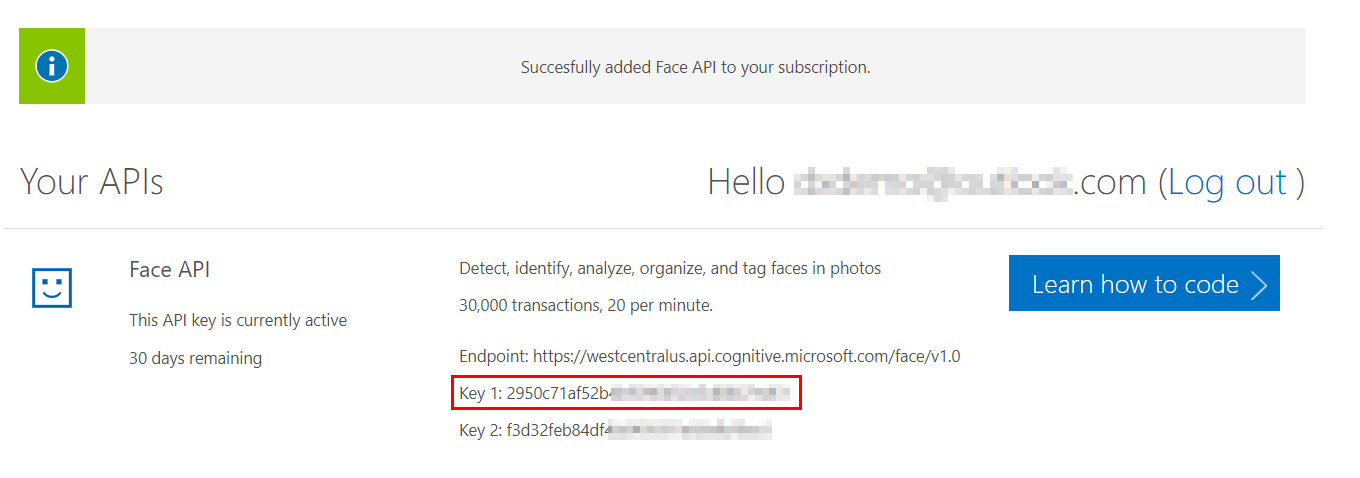
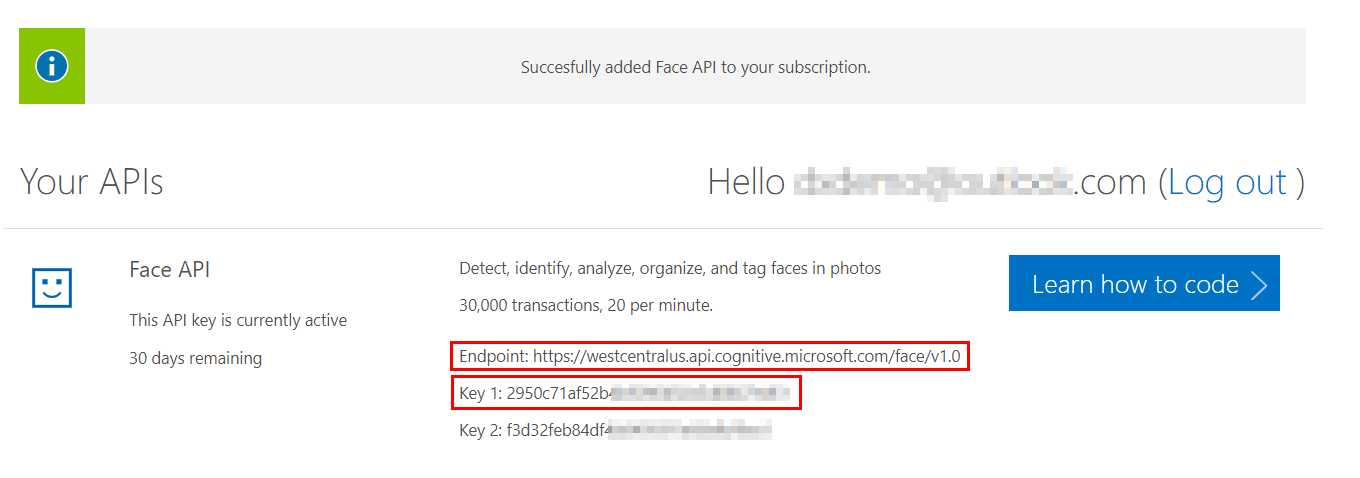
Tutorial improvements

Changed region(s): [[0.3397, 0.7615, 0.7103, 0.7908], [0.3397, 0.7029, 0.7103, 0.7322]]

diff --git a/1-Face.md b/1-Face.md
@@ -37,7 +37,7 @@ Face recognition will be enabled by the Face API and like with any other cloud A
 
    ![](Images/5-get-key.png)
 
-**Copy both keys** somewhere you will find them and take also the **Endpoint** value.
+**Copy** the **Endpoint** and **Key 1** and store them somewhere you will find them later.
 
 Note that you have 30 days to use this free key.
 
@@ -53,7 +53,7 @@ git clone https://github.com/msimecek/Image-Recognition-HoL.git
 
 Go to **\_Source** folder and copy **FaceFrontend** to **_Work**.
 
-If you open the front-end page now, it will attempt to initialize your camera a start a video feed. Depending on your browser this may not work - either the browser doesn't support HTML5 camera access (then use another one), or the browser doesn't allow `file:///` to access the camera. Let's serve our site on localhost first.
+If you open the front-end page now, it will attempt to initialize your camera a start a video feed. Depending on your browser this may not work - either the browser doesn't support HTML5 camera access (then use another one), or the browser doesn't allow `file:///` to access the camera. These commands will run local HTTP server in a directory of your choice:
 
 ```
 npm install http-server -g
@@ -69,17 +69,48 @@ Now visit http://localhost:8080 with your web browser.
 
 ![](Images/1-2-running-frontend.png)
 
+## Face API
+
+Let's take a little break now, before we start building our API, to understand the process of people identification.
+
+First you have to teach the model which people you want to recognize.
+
+1. Create a person group.
+2. Add new person to this group.
+3. Add faces to this person.
+4. Train the group.
+
+![](Images/1-4-face-groups.png)
+
+Then you can send new faces and ask "who is this?"
+
+1. Send an image to the Detect API.
+2. If face detected, send it to the Identify API.
+3. Profit...
+
+![](Images/1-5-identification.png)
+
+Translated to the language of REST:
+
+* `/api/group`
+* `/api/group/[id]/person`
+* `/api/group/[id]/person/[id]/faces`
+* `/api/group/[id]/train`
+* `/api/group/[id]/identify`
+
 ## Create backend
 
-As you can see at the front-end page, teaching computers to recognize certain people is a four step process that involves calling various API endpoints. Let's build those now!
+Let's implement the API described above!
 
-1. Using the command line navigate to the **\_Work** folder.
+1. Using the **console** (CMD, Bash, Terminal...) navigate to the **\_Work** folder.
 2. Run `dotnet new` and see what options are available.
 3. Run `dotnet new webapi -n OSAPI`
 4. `cd OSAPI`
-5. Run Visual Studio Code: `code .` (with the dot).
+5. Run Visual Studio Code: `code .` (including the dot).
 
-Visual Studio will ask if you want to add required assets. Click **Yes**, becuase it will allow you to build and debug directly from VS Code.
+> **Note**: You can use the same source code with Visual Studio 2017 as well. Just the specific steps will be different in Visual Studio Code.
+
+Visual Studio Code will ask if you want to add required assets. Click **Yes**, becuase it will allow you to build and debug directly from VS Code.
 
 ![](Images/1-3-required-assets.png)
 
@@ -111,38 +142,9 @@ namespace OSAPI
 }
 ```
 
-## Face API
-
-Let's take a little break now, before we start building our API, to understand the process of people identification.
-
-First you have to teach the model which people you want to recognize.
-
-1. Create a person group.
-2. Add new person to this group.
-3. Add faces to this person.
-4. Train the group.
-
-![](Images/1-4-face-groups.png)
-
-Then you can send new faces and ask "who is this?"
-
-1. Send an image to the Detect API.
-2. If face detected, send it to the Identify API.
-3. Profit...
-
-![](Images/1-5-identification.png)
-
-Translated to the language of REST:
-
-* `/api/group`
-* `/api/group/[id]/person`
-* `/api/group/[id]/person/[id]/faces`
-* `/api/group/[id]/train`
-* `/api/group/[id]/identify`
-
 ## APIs for new faces
 
-Install the **Face API NuGet package** for .NET Core:
+Install the **Face API NuGet package** for .NET Core by running this command in the **OSAPI** folder:
 
 ```
 dotnet add package Microsoft.ProjectOxford.Face.DotNetCore
@@ -150,16 +152,21 @@ dotnet add package Microsoft.ProjectOxford.Face.DotNetCore
 
 Go back to VS Code and open the **PersonController.cs** file.
 
-Add two constants with information you copied at the beginning into the **PersonController** class:
+Add two constants with information you copied at the beginning (Face API *Key 1* & *Endpoint*) into the **PersonController** class:
 
 ```c#
-private const string _faceApiKey = "b66aaaacccccasaa8888887ae88b38";
-private const string _faceApiEndpoint = "https://westeurope.api.cognitive.microsoft.com/face/v1.0";
+public class PersonController : Controller
+{
+   private const string _faceApiKey = "b66aaaacccccasaa8888887ae88b38";
+   private const string _faceApiEndpoint = "https://westeurope.api.cognitive.microsoft.com/face/v1.0";
+   ...
 ```
 
-Add new method to the **PersonController** class which will create a new Person Group with ID of your choice:
+Under these constants add new method to the **PersonController** class which will create a new Person Group with ID of your choice:
 
 ```c#
+...
+  
 [Route("api/group")]
 [HttpPost]
 public async Task<ActionResult> CreateGroup([FromBody]string groupId)
@@ -193,17 +200,17 @@ Let's test our API now.
 
 2. Run **Postman**.
 
-3. Issue a **POST** request to `http://localhost:5000/api/group` with **Body** of `"customers"` and type `application/json`.
+3. Issue a **POST** request to `http://localhost:5000/api/group` with **Body** of `"customers"` and type **raw** + `application/json`.
 
    ![](Images/1-7-post-customers.png)
 
-4. The API should return status *201 Created* and body of "customers".
+4. The API should return status *201 Created* and body of "*customers*".
 
 5. Try to POST a name which is not allowed by the API. Such as "*our customers*".
 
 6. The API should return status *400 Bad Request* with an error message.
 
-Next step is to create a person in a group. Let's add another method to the **PersonController** class:
+Next step is to create a person in a group. Let's add another method to the **PersonController** class, just under the previous one:
 
 ```c#
 [Route("api/group/{groupId}/person")]
@@ -228,10 +235,10 @@ public async Task<ActionResult> CreatePerson([FromBody]string name, string group
 CreatePerson expects group ID in the URL and person's name in body.
 
 1. Press **F5** and run the API again.
-2. In **Postman** send a new POST request to `http://localhost:5000/api/group/customers/person` with body of type **application/json** and content your name (e.g. `"Martin"`).
+2. In **Postman** send a new POST request to `http://localhost:5000/api/group/customers/person` with body of type **application/json** and content of your name (e.g. `"Martin"` - including quotes).
 3. The API should return status *201 Created* and new person's ID in the body. **Copy this GUID and store it somewhere.**
 
-The last step before training is to add person's faces to the collection. For that we'll create another method in our API.
+The last step before training is to add person's faces to the collection. For that we'll create yet another method in our API.
 
 ```c#
 [Route("api/group/{groupId}/person/{personId}/faces")]
@@ -253,11 +260,11 @@ public async Task<ActionResult> AddPersonFace([FromBody]string imageFile, string
 }
 ```
 
-There's one red error we cannot resolve just by adding using to some library. The "Images" class does not exist yet and we will create it now.
+There's one red error we cannot resolve just by adding using to some library. The `Images` class does not exist yet and we will create it now.
 
-1. Create new folder in the project, call it **Utils**.
+1. In Visual Studio Code create new folder in the project, call it **Utils**.
 2. Add new file to it, call it **Images.cs**.
-3. Code it's contents:
+3. Code its content:
 
 ```c#
 using System.IO;
@@ -283,7 +290,7 @@ We will use the only static method to decode a photo from Base64 format (used by
 
 You should be able to resolve the red squiggle in PersonController now.
 
-Then finally add the training method.
+Then finally add the training method to **PersonController** class.
 
 ```c#
 [Route("api/group/{groupId}/train")]
@@ -299,7 +306,7 @@ public async Task<ActionResult> TrainGroup(string groupId)
 }
 ```
 
-And again - run with **F5** and call it from **Postman**.
+And finally - run with **F5** and call it from **Postman**.
 
 `POST http://localhost:5000/api/group/customers/train`
 
@@ -312,6 +319,8 @@ With our person in place, faces added and group trained we can finally start ide
 3. Get person details based on identification.
 
 At the end, we're interested in the person's name, so that we can display it.
+
+Still in the **PersonController**, add this method under the TrainGroup method:
 
 ```c#
 [Route("api/group/{groupId}/identify")]
@@ -348,9 +357,9 @@ All done for now. Let's test it all together!
 
 ## Testing the app
 
-1. Go to **FaceFrontend** and start it: `http-server`.
+1. Using the console, navigate to **FaceFrontend** folder and start local server: `http-server`.
 2. Press **F5** in Visual Studio Code to run the API.
-3. Navigate to http://localhost:8080 with your browser.
+3. In your web browser navigate to http://localhost:8080 .
 4. Enter the name of your person group to the first field.
 5. Enter the person ID to the second field.
 6. Click **Add face**.
